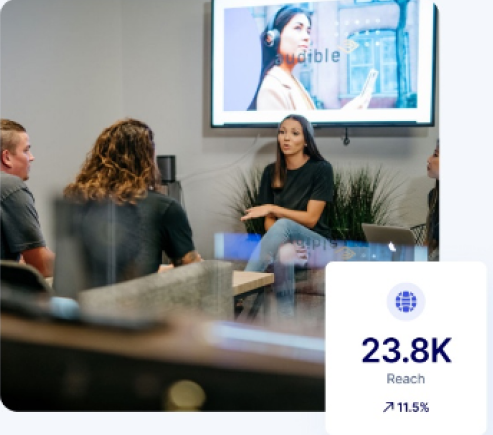
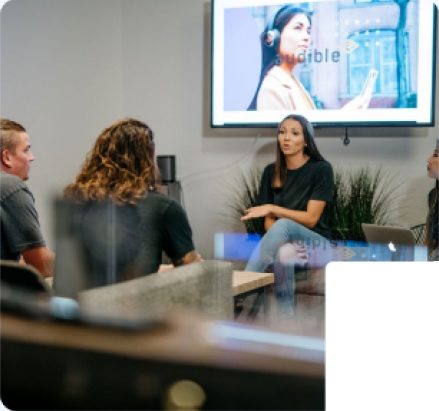
адаптив about us

diff --git a/style.css b/style.css
@@ -167,7 +167,7 @@ header{
 }
 .prof-marketing-content h2{
     color: #f5dbdb;
-    margin-top: 1.5em;
+    margin-top: 0.8em;
     margin-bottom: 0.4em;
 }
 .prof-marketing-content p{
@@ -324,7 +324,31 @@ header{
 #about-us-txt-2p{
     margin-bottom: 50px;
 }
-
+.about-us-img{
+    position: relative;
+}
+.about-us-img-statistic{   
+    position: absolute;
+    display: flex;
+    flex-direction: column;
+    max-width: 100%;
+    background: #FFFFFF;
+    text-align: center;
+    align-items: center;
+    padding: 13px 18px;
+    border-radius: 10px;
+    bottom: -6%;
+    right: -10%;
+}
+.about-us-img-statistic h2{
+    margin-top: 0.2em;
+}
+.about-us-img-statistic p{
+    margin-bottom: 1em;
+}
+.about-us-img-statistic P:last-child{
+    color:#010254;
+}
 /* our solutions */
 .our-solutions{
     display: flex;
@@ -732,6 +756,25 @@ header{
     .our-services-content {
         justify-content: flex-start;
     }
+
+    /* about us*/
+    .about-us{
+        flex-direction: column;
+    }
+    .about-us-txt {
+        text-align: center;
+        max-width: 50%;
+        margin-left: 0; 
+        margin: 0 auto;
+    }
+    .about-us-img{
+        margin: 0 auto;
+        margin-top: 40px;
+    }
+    .about-us-img-statistic{
+        bottom: -1%;
+        right: -4%;
+    }
 }
 @media screen and (max-width:992px){
     /* header */
@@ -854,5 +897,10 @@ header{
     /* our services */
     .service-block{
         min-width: 35%;
+    }
+    /* about us */
+    .about-us-img-statistic {
+        bottom: 1%;
+        right: -4%;
     }
 }

diff --git a/index.html b/index.html
@@ -97,6 +97,12 @@
                 </div>
                 <div class="about-us-img">
                     <img src="img/group.png" alt="group of people">
+                    <div class="about-us-img-statistic">
+                        <img src="img/world.png" alt="world">
+                         <h2>23.8K</h2>
+                         <p>Reach</p>
+                         <p>&#8593; 11.5%</p>
+                    </div>
                 </div>
             </div>
             <div class="our-solutions">
